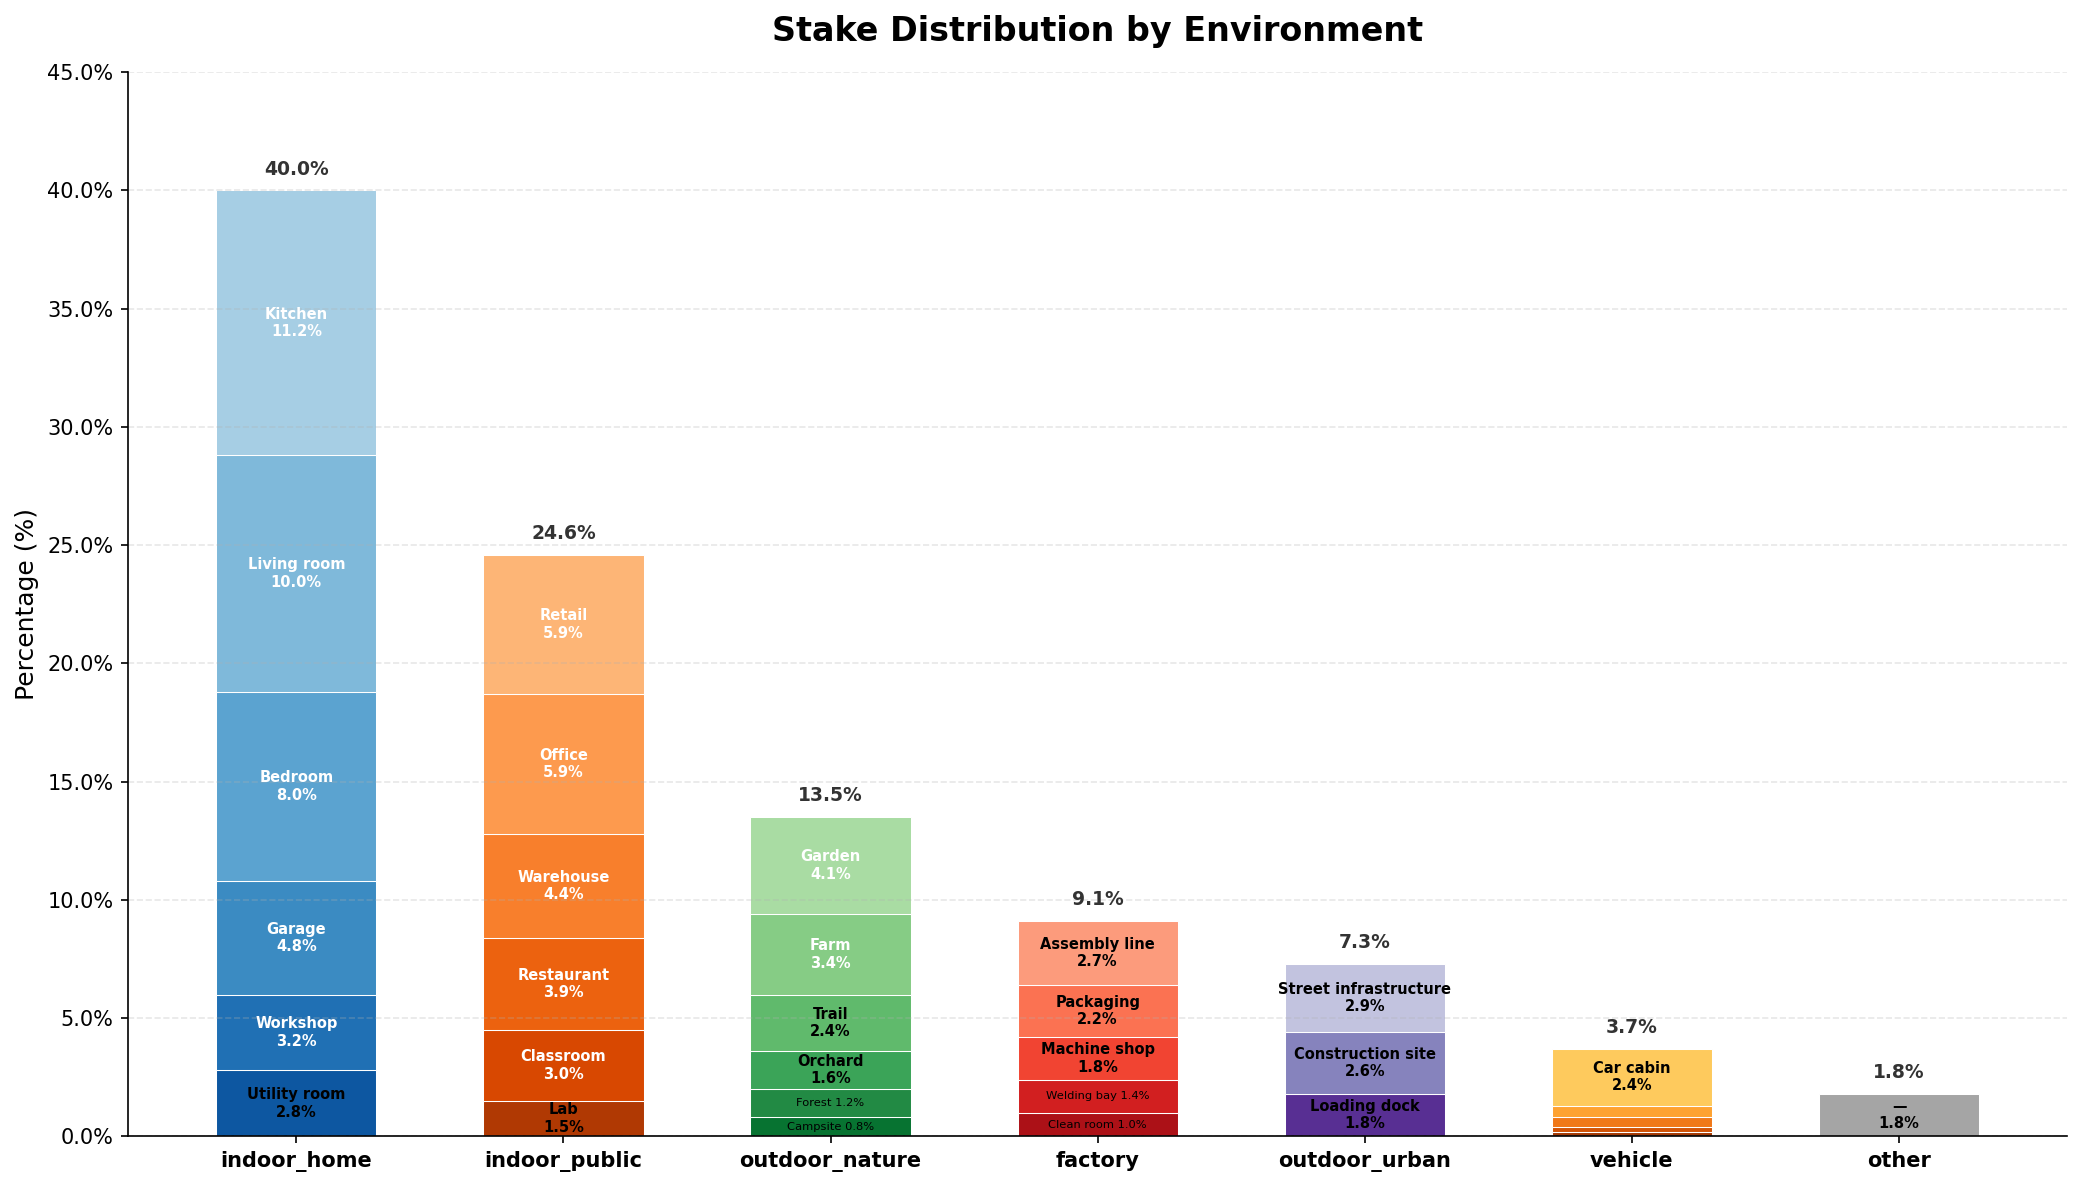
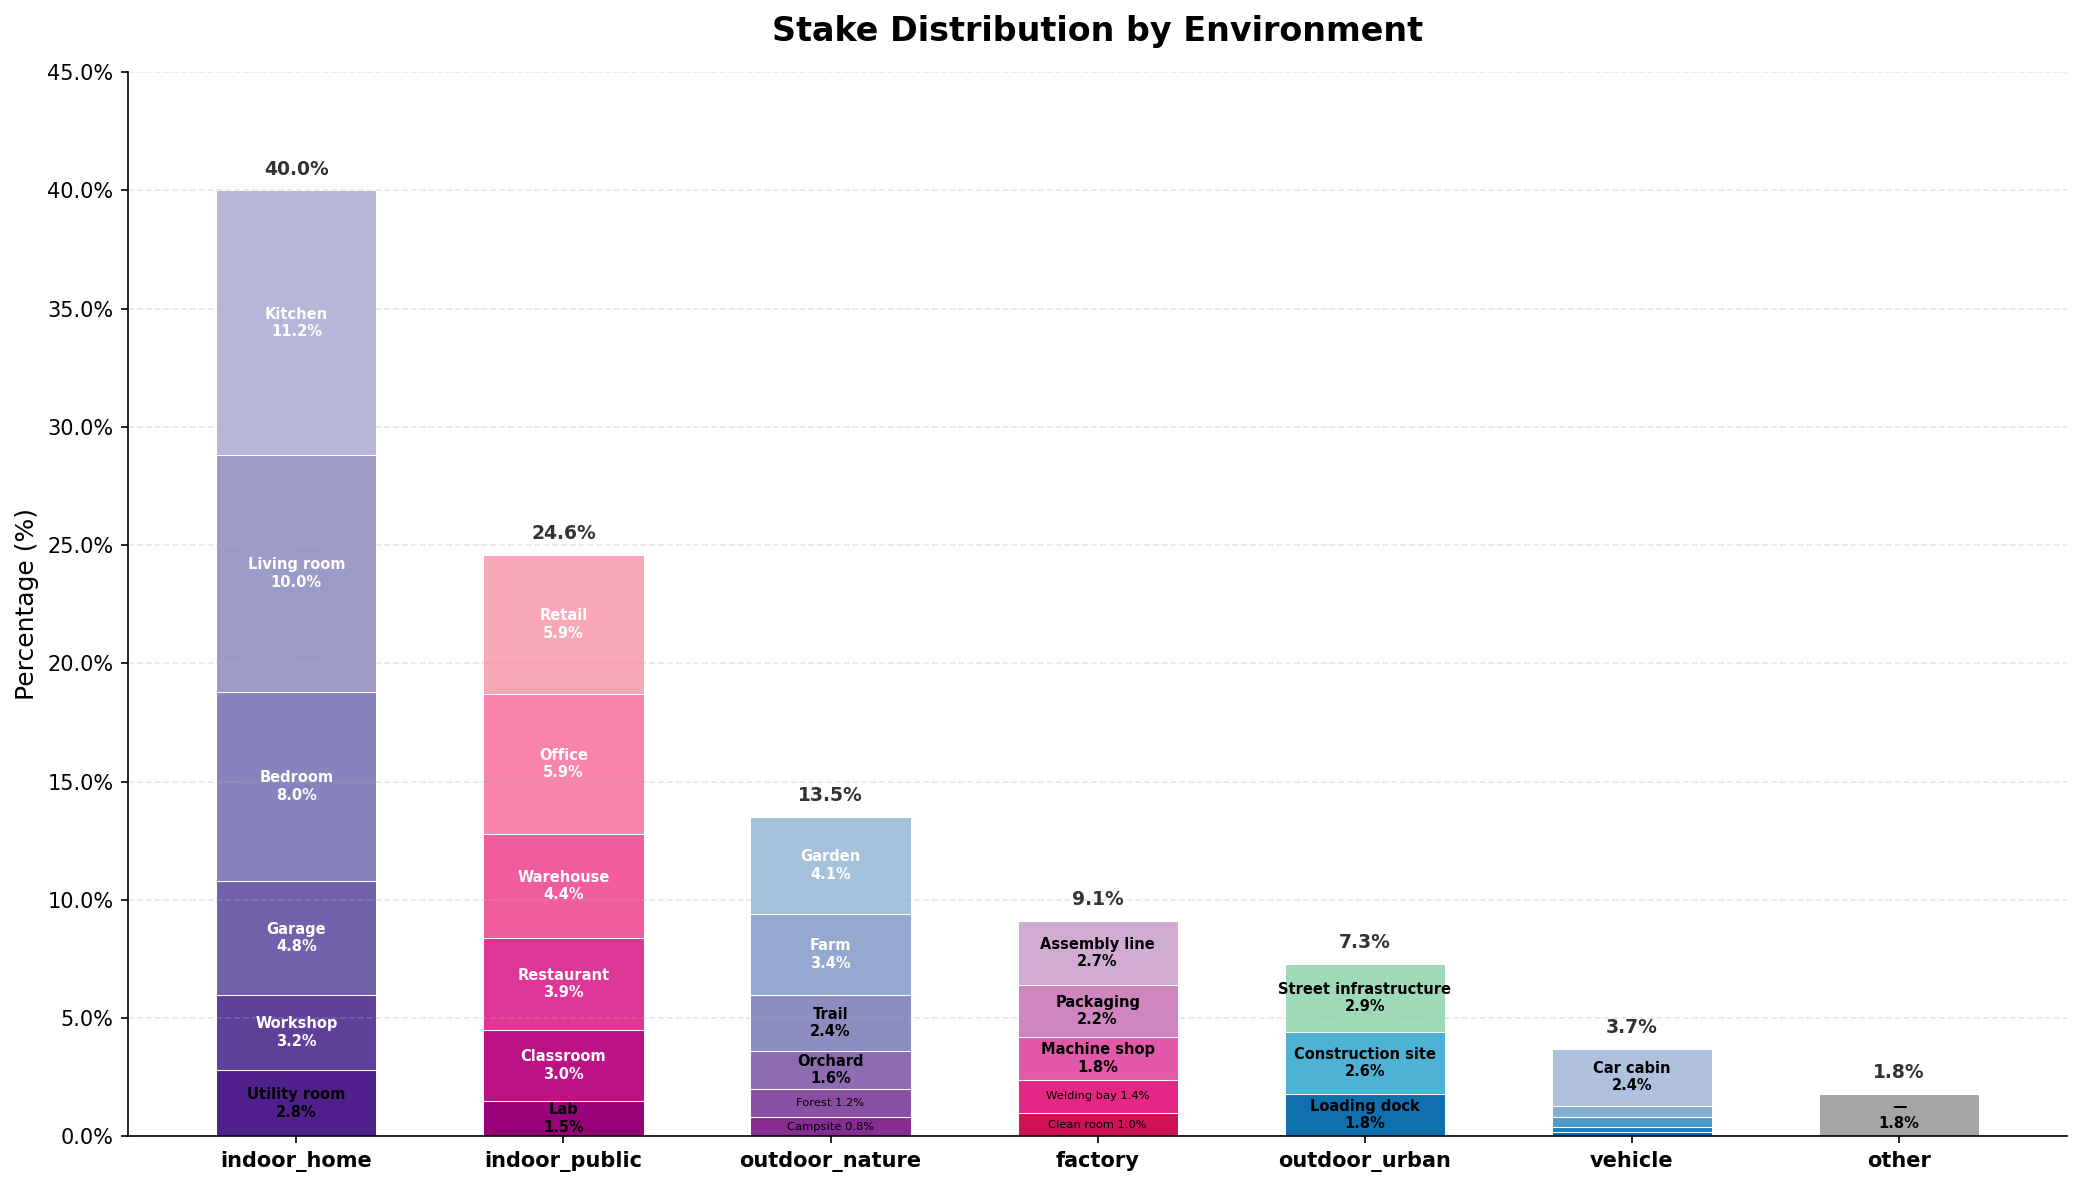
Update stake histogram to purple color scheme
Switch color palettes from mixed colors (Blues, Oranges, Greens, etc.)
to a cohesive purple-based scheme using Purples, RdPu, BuPu, PuRd,
GnBu, and PuBu colormaps.

https://claude.ai/code/session_01YFEMcT1AK5PU6J9AAkz5ug

diff --git a/stake_histogram.py b/stake_histogram.py
@@ -52,14 +52,14 @@ data = {
     ],
 }
 
-# Color palettes for each environment (light to dark shades)
+# Color palettes for each environment (purple-based scheme)
 color_palettes = {
-    "indoor_home": plt.cm.Blues(np.linspace(0.35, 0.85, len(data["indoor_home"]))),
-    "indoor_public": plt.cm.Oranges(np.linspace(0.35, 0.85, len(data["indoor_public"]))),
-    "outdoor_nature": plt.cm.Greens(np.linspace(0.35, 0.85, len(data["outdoor_nature"]))),
-    "factory": plt.cm.Reds(np.linspace(0.35, 0.85, len(data["factory"]))),
-    "outdoor_urban": plt.cm.Purples(np.linspace(0.35, 0.85, len(data["outdoor_urban"]))),
-    "vehicle": plt.cm.YlOrBr(np.linspace(0.35, 0.85, len(data["vehicle"]))),
+    "indoor_home": plt.cm.Purples(np.linspace(0.40, 0.90, len(data["indoor_home"]))),
+    "indoor_public": plt.cm.RdPu(np.linspace(0.35, 0.80, len(data["indoor_public"]))),
+    "outdoor_nature": plt.cm.BuPu(np.linspace(0.35, 0.80, len(data["outdoor_nature"]))),
+    "factory": plt.cm.PuRd(np.linspace(0.30, 0.75, len(data["factory"]))),
+    "outdoor_urban": plt.cm.GnBu(np.linspace(0.40, 0.85, len(data["outdoor_urban"]))),
+    "vehicle": plt.cm.PuBu(np.linspace(0.35, 0.80, len(data["vehicle"]))),
     "other": plt.cm.Greys(np.linspace(0.45, 0.65, len(data["other"]))),
 }
 
